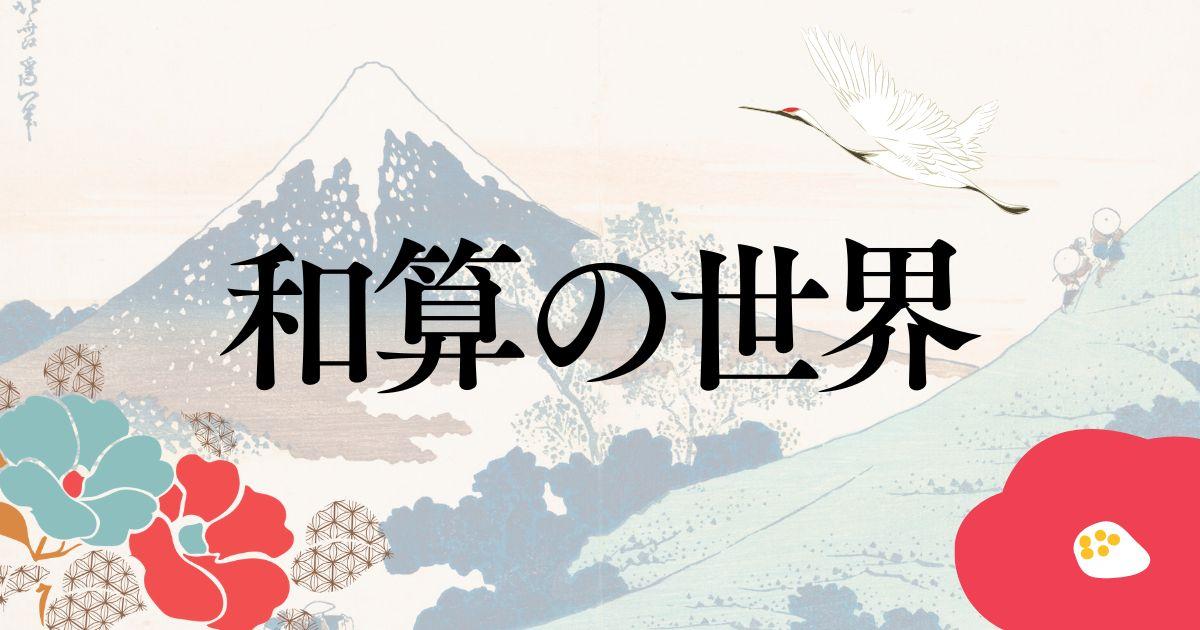
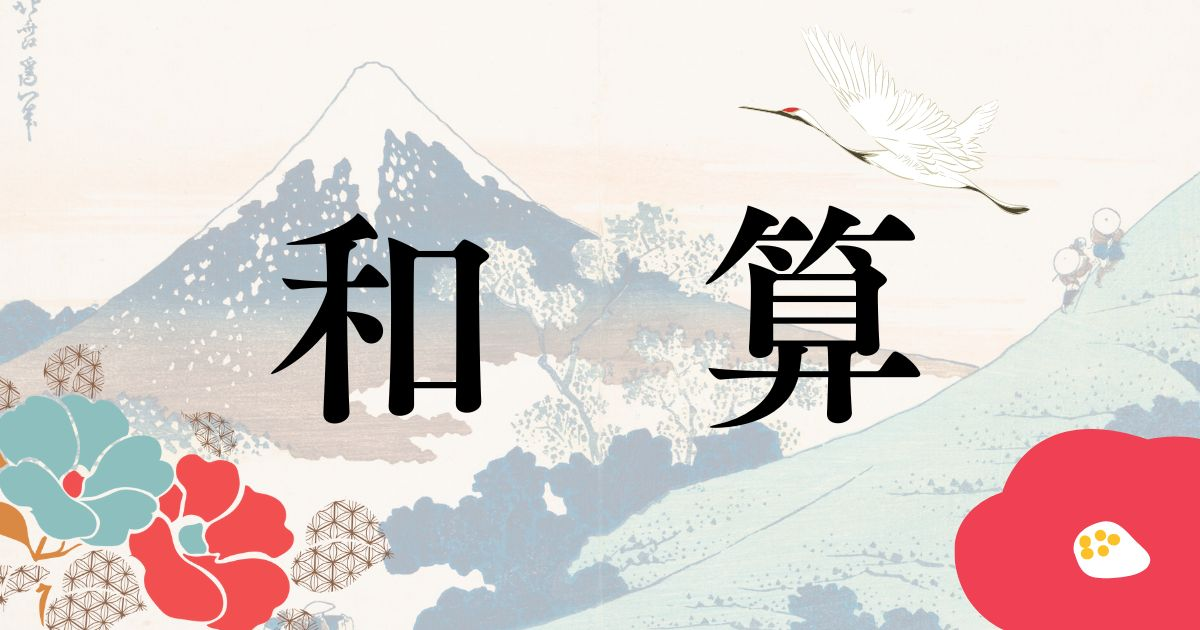
up

Changed region(s): [[0.185, 0.3317, 0.8325, 0.6937]]

diff --git a/japanese-math-door/index.html b/japanese-math-door/index.html
@@ -1,19 +1,19 @@
 <!DOCTYPE HTML>
 <html lang="ja">
-<title>和算の世界</title>
+<title>和算を嗜む</title>
 
 <head prefix="og: http://ogp.me/ns# fb: http://ogp.me/ns/fb# article: http://ogp.me/ns/article#">
   <meta charset="UTF-8" name="viewport"
     content="width=device-width, initial-scale=1, maximum-scale=1, user-scalable=no">
   <meta http-equiv="X-UA-Compatible" content="IE=edge">
-  <meta property="og:title" content="和算の世界" />
+  <meta property="og:title" content="和算を嗜む" />
   <meta property="og:type" content="website" />
-  <meta property="og:image" content="https://japanese-math-door.netlify.app/images/ogp.jpg" />
+  <meta property="og:image" content="https://wasan-taste.netlify.app/images/ogp.jpg" />
   <meta name="description"
     content="江戸時代、鎖国文化の中で広がったものの一つに和算があります。日本独自の文化ですが、その計算力とみるや、海外と引けを取らないことを知りました。文献から学んで、アプリケーションという形に仕上げました。" />
   <meta name="twitter:card" content="summary_large_image">
-  <meta name="twitter:title" content="和算の世界" />
-  <meta name="twitter:image" content="https://japanese-math-door.netlify.app/images/ogp.jpg" />
+  <meta name="twitter:title" content="和算を嗜む" />
+  <meta name="twitter:image" content="https://wasan-taste.netlify.app/images/ogp.jpg" />
   <meta name="author" content="Saito Hitoshi">
   <meta name="keywords" content="和算,算数,数学,江戸時代,鎖国,鎖国文化" />
   <link rel="apple-touch-icon" href="./images/apple-touch-icon.jpg">
@@ -302,7 +302,7 @@
       transform: translateY(20%) rotate(-45deg);
     }
 
-    .area {
+/*    .area {
       width: 100%;
       height: 100vh;
       position: fixed;
@@ -422,6 +422,8 @@
       }
 
     }
+*/
+
   </style>
 
   <link rel="manifest" href="./manifest.json">
@@ -439,7 +441,7 @@
 
   <div class="header p-3" id="header">
     <center>
-      <h1 class="text-3xl">和算の世界</h1>
+      <h1 class="text-3xl">和算を嗜む</h1>
     </center>
 
     <!--<div class="last_update text-xs px-1"><time datetime="2024-06-11" itemprop="modified">最終更新日：2024.06.11</time> ver
@@ -452,7 +454,7 @@
 
   <div class="zoom-btn2"><i class="fa-solid fa-xl fa-expand"></i></div>
 
-  <div class="area">
+  <!--<div class="area">
     <ul class="circles">
       <li></li>
       <li></li>
@@ -465,7 +467,7 @@
       <li></li>
       <li></li>
     </ul>
-  </div>
+  </div>-->
 
   <div class="main">
 
